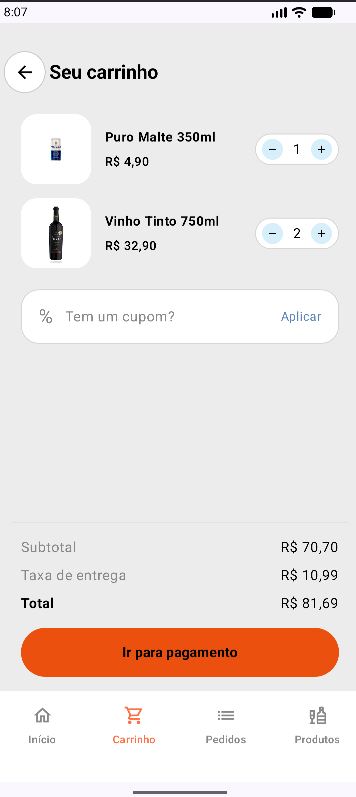
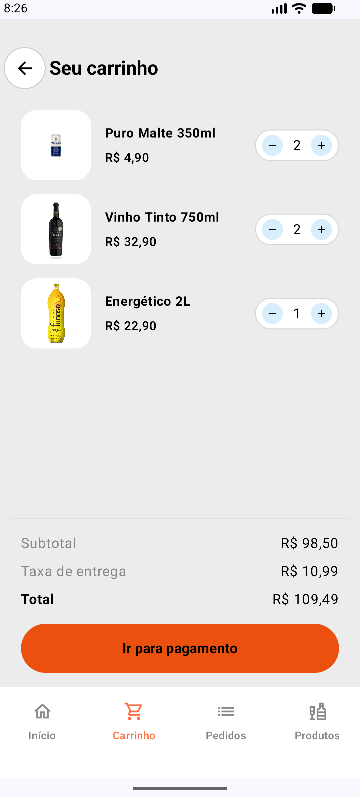
Ajustes finais no readme e processo

diff --git a/app/src/main/java/com/example/myapplication/ui/screens/TelaCarrinho.kt b/app/src/main/java/com/example/myapplication/ui/screens/TelaCarrinho.kt
@@ -119,7 +119,6 @@ fun TelaCarrinho(
 
                     item {
                         Spacer(Modifier.height(8.dp))
-                        CampoCupom()
                     }
                 }
 
@@ -218,44 +217,6 @@ private fun StepperQuantidade(
             icone = Icons.Default.Add,
             descricao = "Aumentar quantidade",
             onClick = onMais
-        )
-    }
-}
-
-@Composable
-private fun CampoCupom(onAplicar: (String) -> Unit = {}) {
-    var cupom by remember { mutableStateOf("") }
-
-    Row(
-        verticalAlignment = Alignment.CenterVertically,
-        modifier = Modifier
-            .fillMaxWidth()
-            .background(Color.White, RoundedCornerShape(20.dp))
-            .border(1.dp, CorBorda, RoundedCornerShape(20.dp))
-            .padding(horizontal = 20.dp, vertical = 18.dp)
-    ) {
-        Text(text = "%", fontSize = 22.sp, color = Color.Gray)
-
-        Spacer(Modifier.width(14.dp))
-
-        Box(modifier = Modifier.weight(1f)) {
-            if (cupom.isEmpty()) {
-                Text(text = "Tem um cupom?", fontSize = 16.sp, color = Color.Gray)
-            }
-            BasicTextField(
-                value = cupom,
-                onValueChange = { cupom = it },
-                singleLine = true,
-                textStyle = TextStyle(fontSize = 16.sp, color = Color.Black),
-                modifier = Modifier.fillMaxWidth()
-            )
-        }
-
-        Text(
-            text = "Aplicar",
-            fontSize = 14.sp,
-            color = CorAplicar,
-            modifier = Modifier.clickable { onAplicar(cupom) }
         )
     }
 }

diff --git a/README.md b/README.md
@@ -6,24 +6,6 @@ Este repositório é a **segunda parte do Trabalho** da A2 e dá continuação a
 
 ---
 
-## Sumário
-
-1. [Objetivos](#objetivos)
-2. [Figma (Trabalho 1)](#figma-trabalho-1)
-3. [Canvas: por que esse aplicativo existe?](#canvas-por-que-esse-aplicativo-existe)
-4. [O que o app faz](#o-que-o-app-faz)
-5. [Mapa de telas e navegação](#mapa-de-telas-e-navegação)
-6. [Requisitos do Trabalho 2: onde cada um foi atendido](#requisitos-do-trabalho-2-onde-cada-um-foi-atendido)
-7. [Documentação do processo e das decisões](#documentação-do-processo-e-das-decisões)
-8. [Tecnologias utilizadas](#tecnologias-utilizadas)
-9. [Estrutura do projeto](#estrutura-do-projeto)
-10. [Como executar](#como-executar)
-11. [Limitações conhecidas](#limitações-conhecidas)
-12. [Anexos](#anexos)
-13. [Licença](#licença)
-
----
-
 ## Objetivos
 
 * Desenvolver uma aplicação mobile funcional, com navegação e dados que se movem de verdade;

diff --git a/PROCESSO.md b/PROCESSO.md
@@ -4,8 +4,14 @@ Durante a primeira parte do trabalho foram desenvolvidas 3 telas que não implem
 
  * Tela de Pagamento;
  * Tela do Carrinho;
- * Tela da Entrega;
  * Tela de Produtos por Categoria;
+
+Além disso foram criadas telas para mostrar os produtos e categorias em colunas que levam aos formulários, isso foi feito para cumprir com os requisitos descritos no trabalho. Dessa forma fechamos o fluxo principal do aplicativo que vai desde a tela inicial até a tela de rastreio com o pedido, junto das telas que permitem a manipulação das listas.
+
+* Tela produtos
+* Tela categorias
+* Tela formulario produtos
+* Tela formulario categorias
 
    ![print do Rotas.kt](anexos/processo/prints/Captura%20de%20tela%202026-10-01%20233318.png)
 
